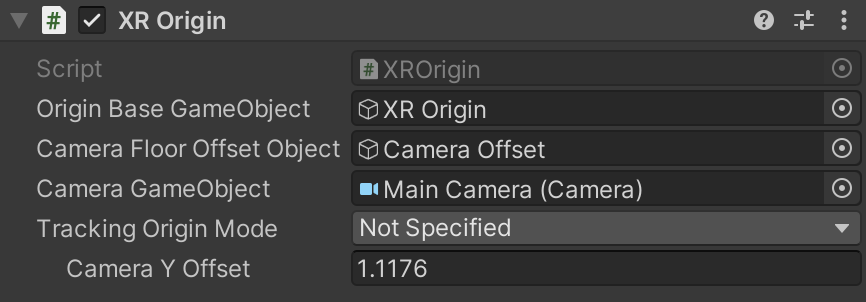
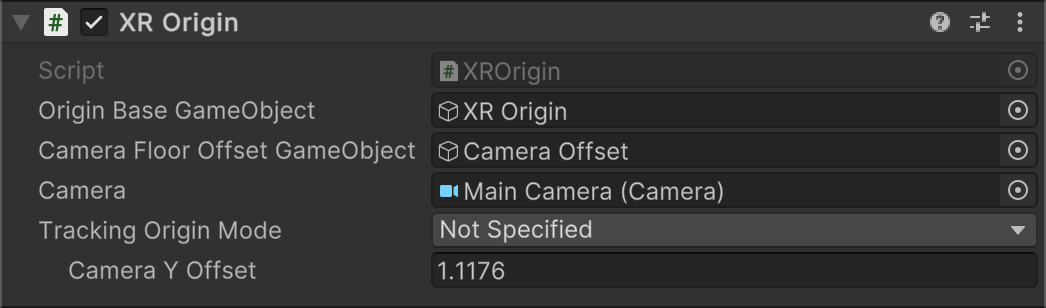
com.unity.xr.core-utils@2.2.1 The format is based on [Keep a Changelog](http://keepachangelog.com/en/1.0.0/) and this project adheres to [Semantic Versioning](http://semver.org/spec/v2.0.0.html).
<!-- Headers should be listed in this order: Added, Changed, Deprecated, Removed, Fixed, Security -->
## [2.2.1] - 2023-05-02

### Changed

- Renamed the following display names of the properties in `XROrigin` inspector:
  - **Camera GameObject** to **Camera** for `Camera` property
  - **Camera Floor Offset Object** to **Camera Floor Offset GameObject** for `CameraFloorOffsetObject` property

diff --git a/Editor/XROriginEditor.cs b/Editor/XROriginEditor.cs
@@ -54,9 +54,9 @@ namespace Unity.XR.CoreUtils.Editor
             /// <summary><see cref="GUIContent"/> for <see cref="XROrigin.Origin"/>.</summary>
             public static readonly GUIContent Origin = EditorGUIUtility.TrTextContent("Origin Base GameObject", "The \"Origin\" GameObject is used to refer to the base of the XR Origin, by default it is this GameObject. This is the GameObject that will be manipulated via locomotion.");
             /// <summary><see cref="GUIContent"/> for <see cref="XROrigin.CameraFloorOffsetObject"/>.</summary>
-            public static readonly GUIContent CameraFloorOffsetObject = EditorGUIUtility.TrTextContent("Camera Floor Offset Object", "The GameObject to move to desired height off the floor (defaults to this object if none provided).");
+            public static readonly GUIContent CameraFloorOffsetObject = EditorGUIUtility.TrTextContent("Camera Floor Offset GameObject", "The GameObject to move to desired height off the floor (defaults to this object if none provided).");
             /// <summary><see cref="GUIContent"/> for <see cref="XROrigin.Camera"/>.</summary>
-            public static readonly GUIContent Camera = EditorGUIUtility.TrTextContent("Camera GameObject", "The GameObject that contains the camera, this is usually the \"Head\" of XR Origins.");
+            public static readonly GUIContent Camera = EditorGUIUtility.TrTextContent("Camera", "The GameObject that contains the camera, this is usually the \"Head\" of XR Origins.");
             /// <summary><see cref="GUIContent"/> for <see cref="XROrigin.RequestedTrackingOriginMode"/>.</summary>
             public static readonly GUIContent TrackingOriginMode = EditorGUIUtility.TrTextContent("Tracking Origin Mode", "The type of tracking origin to use for this Origin. Tracking origins identify where (0, 0, 0) is in the world of tracking.");
             /// <summary><see cref="GUIContent"/> for <see cref="XROrigin.CurrentTrackingOriginMode"/>.</summary>

diff --git a/Runtime/XROrigin.cs b/Runtime/XROrigin.cs
@@ -507,7 +507,7 @@ namespace Unity.XR.CoreUtils
         {
             if (m_CameraFloorOffsetObject == null)
             {
-                Debug.LogWarning("No Camera Floor Offset Object specified for XR Origin, using attached GameObject.", this);
+                Debug.LogWarning("No Camera Floor Offset GameObject specified for XR Origin, using attached GameObject.", this);
                 m_CameraFloorOffsetObject = gameObject;
             }
 

diff --git a/Documentation~/xr-origin-reference.md b/Documentation~/xr-origin-reference.md
@@ -14,15 +14,15 @@ The purpose of the XR Origin is to transform objects and trackable features to t
    <td>The GameObject whose Transform serves as the origin for trackables or device-relative elements in an XR scene.</td>
   </tr>
   <tr>
-   <td colspan="2" ><strong>Camera Floor Offset Object</strong></td>
+   <td colspan="2" ><strong>Camera Floor Offset GameObject</strong></td>
    <td>GameObject that offsets the [Camera](xref:UnityEngine.Camera) position from the XR Origin. The XR Origin component controls the Y coordinate of the [Transform](xref:UnityEngine.Transform) of this GameObject according to the chosen <strong>Tracking Origin Mode</strong> option:
    <ul>
       <li><strong>Device</strong>: initialized to the value specified by <strong>Camera Y Offset</strong>. Reset when the user resets the view.</li>
       <li><strong>Floor</strong>: initialized to zero.</li>
   </ul></td></tr>
   <tr>
-   <td colspan="2" ><strong>Camera GameObject</strong></td>
-   <td>The Camera for the XR Origin. The GameObject containing this Camera must be underneath the <strong>Origin Base GameObject</strong> in the Scene hierarchy. It should be a child of the <strong>Camera Floor Offset Object</strong>. 
+   <td colspan="2" ><strong>Camera</strong></td>
+   <td>The Camera for the XR Origin. The GameObject containing this Camera must be underneath the <strong>Origin Base GameObject</strong> in the Scene hierarchy. It should be a child of the <strong>Camera Floor Offset GameObject</strong>. 
    <p>This [Camera](xref:UnityEngine.Camera) is used to render the XR scene.</p>
    </td>
   </tr>

diff --git a/CHANGELOG.md b/CHANGELOG.md
@@ -7,6 +7,14 @@ All notable changes to this package will be documented in this file.
 The format is based on [Keep a Changelog](http://keepachangelog.com/en/1.0.0/) and this project adheres to [Semantic Versioning](http://semver.org/spec/v2.0.0.html).
 
 <!-- Headers should be listed in this order: Added, Changed, Deprecated, Removed, Fixed, Security -->
+## [2.2.1] - 2023-05-02
+
+### Changed
+
+- Renamed the following display names of the properties in `XROrigin` inspector:
+  - **Camera GameObject** to **Camera** for `Camera` property
+  - **Camera Floor Offset Object** to **Camera Floor Offset GameObject** for `CameraFloorOffsetObject` property
+
 ## [2.2.0] - 2023-02-10
 
 ### Changed
